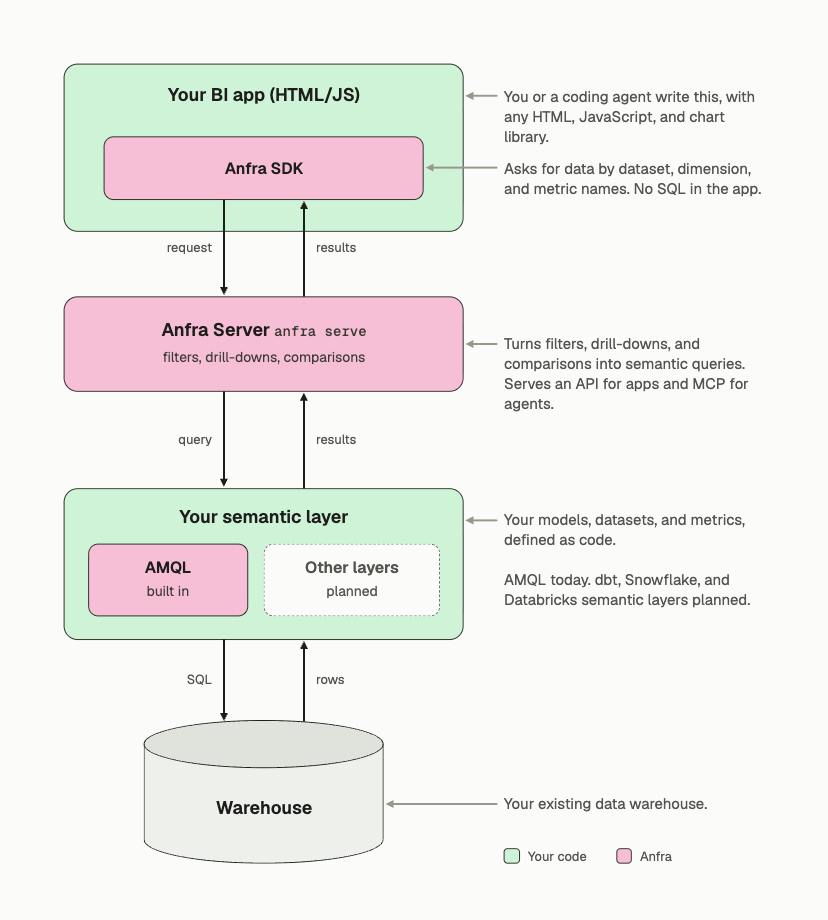
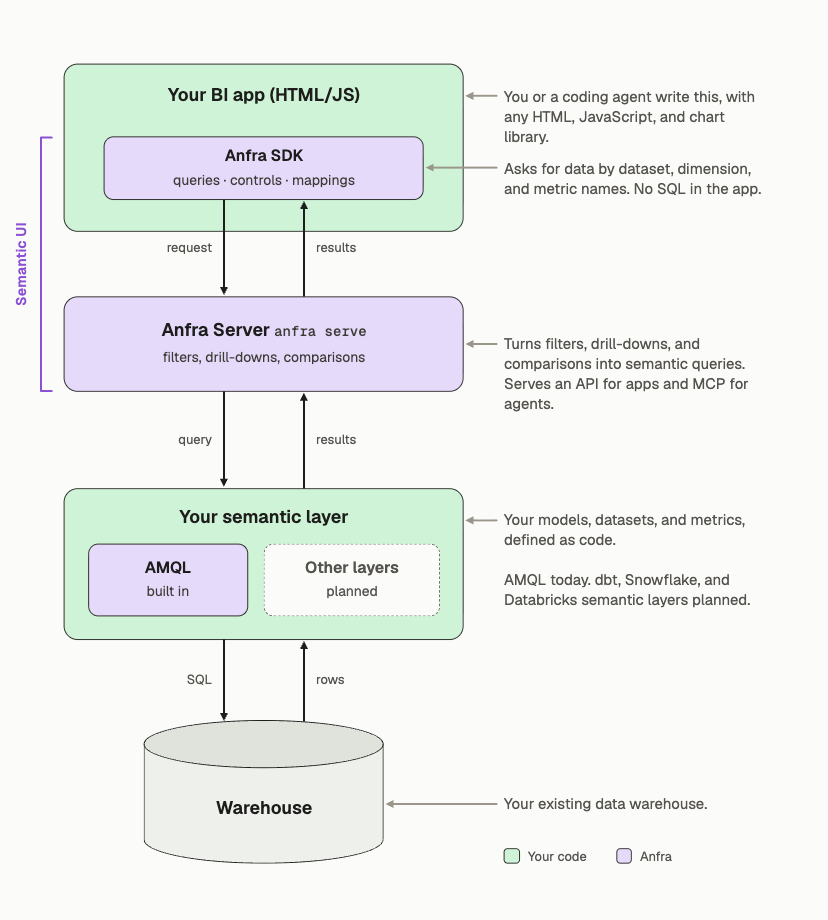
docs: add Semantic UI section and center the diagram

diff --git a/README.md b/README.md
@@ -27,12 +27,14 @@ These are custom BI apps (HTML/JS/CSS) generated by coding agents on top of Anfr
 
 ## How Anfra works
 
-<img src="docs/images/how-anfra-works.png" alt="How Anfra works" align="right" width="420">
-
 Anfra has three parts:
 - **Anfra SDK**: a JavaScript library your app uses to request data and wire up filters, drill-downs, and period comparisons. It asks for data by dataset and metric names, not SQL.
 - **Anfra Server** (`anfra serve`): takes each request from the SDK, turns the interaction (a filter, a drill-down, a comparison) into a query on your semantic layer, runs it on the warehouse, and returns the results. It also serves MCP so coding agents can read your models.
 - **Semantic layer**: your models, datasets, and metrics, defined as code. Anfra ships with AMQL, the semantic layer behind [Holistics](https://www.holistics.io). Support for other semantic layers is planned.
+
+<p align="center">
+  <img src="docs/images/how-anfra-works.png" alt="How Anfra works" width="500">
+</p>
 
 How it works in a few steps:
 1. Connect Anfra to your warehouse.
@@ -40,6 +42,32 @@ How it works in a few steps:
 3. Ask your coding agent to build an app. It reads the semantic layer and writes HTML and JavaScript that uses the Anfra SDK.
 4. Run `anfra serve`. The server resolves each query through the semantic layer, runs it on the warehouse, and returns results to the page.
 5. Check any number in the app to see the query and metric definitions behind it.
+
+## Semantic UI
+
+A vibe-coded app connected directly to a semantic layer still has to handle every interaction itself. When a user picks a region, clicks a bar, or compares to last period, the agent writes code to rebuild each affected query: which filters apply to which charts, how a drill changes the grain, how to calculate the prior period. Every app does this differently, and this code is where the numbers usually go wrong.
+
+Anfra adds a Semantic UI layer between your frontend code and the semantic layer. Your page declares three kinds of objects:
+
+- **Queries**: the data each view needs, by dataset, dimension, and metric.
+- **Controls**: inputs such as a region filter, a date drill, or a parameter.
+- **Mappings**: which controls and selections affect which queries.
+
+Anfra Server turns each interaction into a new semantic query. The page reports what the user did and redraws the results:
+
+```js
+// byRegion and trend are query objects behind two charts
+app.mapCrossFilter(byRegion, trend)
+
+regionChart.on('click', (row) => {
+  byRegion.select([row])
+  app.execute()
+})
+```
+
+Clicking a region filters the trend chart. The page contains no filter logic and computes no numbers.
+
+See the [Semantic UI guide](https://docs.anfra.ai/docs/sdk) for queries, controls, and interaction mappings in detail.
 
 ## Quickstart
 
@@ -120,66 +148,6 @@ With no models yet, the agent proposes datasets and metrics as code in the `mode
 
 Run `anfra serve`. The app opens at `http://localhost:4000/<name>`. <!-- TODO: confirm port and app path -->
 
-## Semantic frontend objects
-
-The SDK gives your page a few JavaScript building blocks for talking to Anfra's semantic backend. Each one has a specific job: request data, expose an input, or connect one view's selection to another. The snippets below assume an `app` created with `anfra.createApp()`.
-
-### Query objects
-
-A query object describes the data a view needs. Your frontend reads its `result` and passes that data to a chart or other UI. Here, the page redraws a revenue chart whenever the query updates:
-
-```js
-const trend = app.createQuery('trend', {
-  dataset: 'sales',
-  aql: `explore {
-    dimensions { month: date_trunc(orders.created_at, "month") }
-    measures { revenue: revenue }
-  }`,
-})
-
-app.subscribe(() => renderRevenueChart(document.querySelector('#chart'), trend.result))
-await app.execute()
-```
-
-Queries can be written as AMQL, as above, or as structured `dimensions` and `measures` fields, as in the interaction example below.
-
-### Control objects
-
-A control object holds an input value, such as the selected region in a dropdown. Map it to a query, then update the control when the user changes the dropdown:
-
-```js
-const region = app.createFilter('region', { dataset: 'sales', field: 'users.region' })
-app.mapControl(region, trend, { field: 'users.region' })
-
-document.querySelector('#region').addEventListener('change', (event) => {
-  region.setCondition({ operator: 'is', values: [event.target.value] })
-  app.execute()
-})
-```
-
-The dropdown is ordinary HTML; the control carries its selected value into the mapped query. Your subscription redraws the chart with the updated result.
-
-### Interaction mappings
-
-An interaction mapping connects a selectable view to the queries that should respond. When a user clicks a region in the breakdown, the frontend selects that row and executes the app; the mapping applies the selection to `trend`:
-
-```js
-const byRegion = app.createQuery('byRegion', {
-  dataset: 'sales',
-  dimensions: { region: { field: 'users.region' } },
-  measures: { revenue: { field: 'revenue' } },
-})
-
-app.mapCrossFilter(byRegion, trend)
-
-regionChart.on('click', (row) => {
-  byRegion.select([row])
-  app.execute()
-})
-```
-
-Your subscription can then redraw both views from `byRegion.result` and `trend.result`. Your page decides how the views look and handle clicks; Anfra runs the queries and applies the mapped filters through the semantic model.
-
 ## What you can do with Anfra
 
 ### 1. Vibe-code sophisticated data apps
@@ -221,8 +189,6 @@ Your users keep the Claude experience. You keep one semantic layer. The open-sou
 | **Inspect**                | Every result carries provenance: executed query, fields, metric definitions, timing, cache status and lineage.                                         |
 
 AMQL is the language for defining models and datasets and for querying them.
-
-Advanced interactions, including drill-down, period-over-period, "view underlying data" and cross-filtering, are resolved by the semantic engine rather than recomputed in the browser. This is where Anfra apps stay correct when hand-written SQL doesn't.
 
 ## CLI
 
